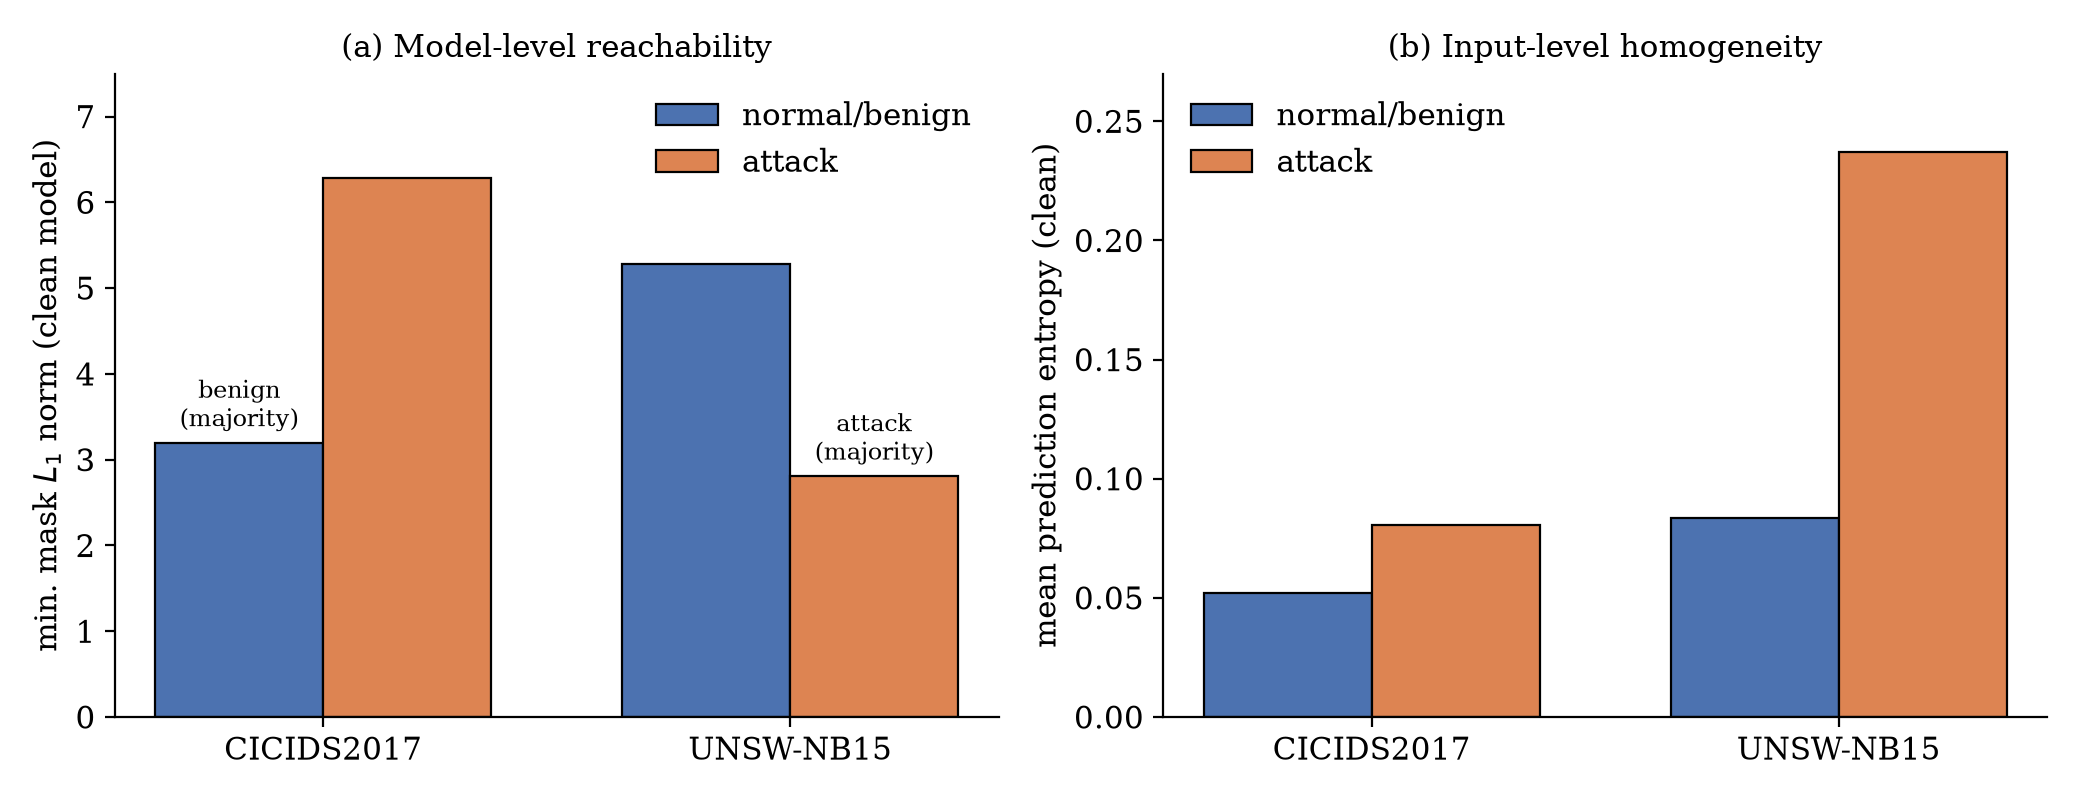
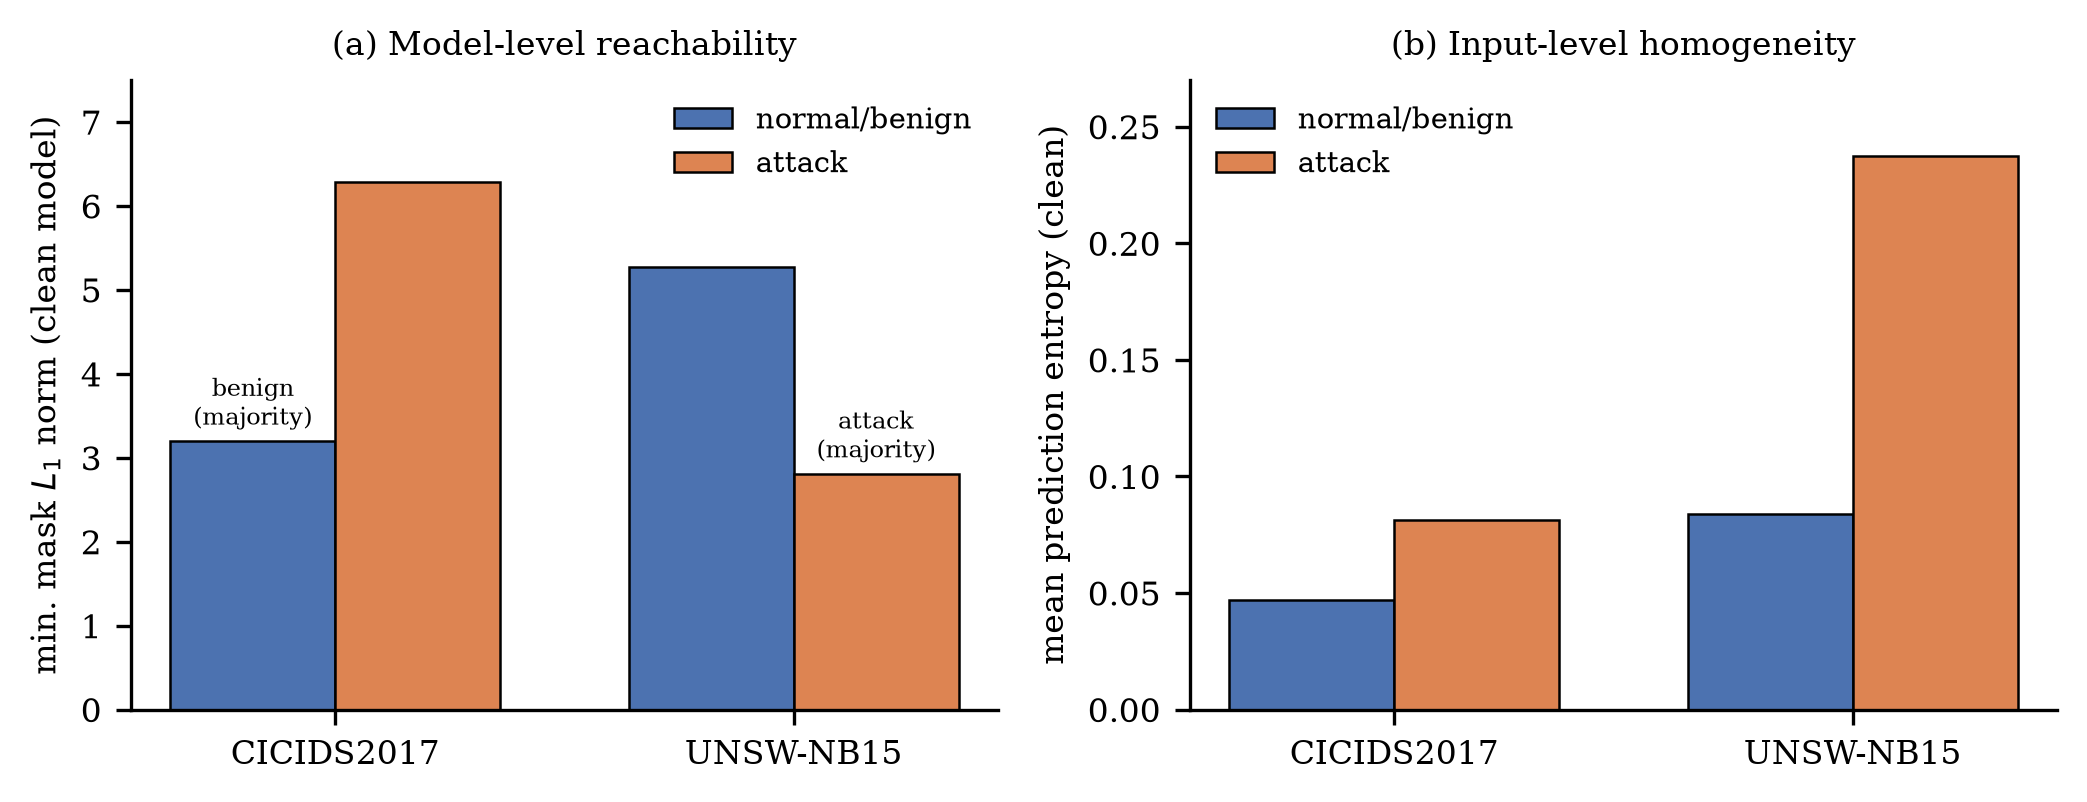
exp: plot Figure 3 panel (b) from clean-model entropies and match the article's style
Panel (b) CICIDS2017 now uses the per-class entropy of the clean
reference models; the sources table records n and sd for every bar.

diff --git a/src/eval/plot_figure3.py b/src/eval/plot_figure3.py
@@ -1,9 +1,11 @@
 """Figure 3 of the article: the intrinsically easy class, by (a) model-level
 reachability and (b) input-level homogeneity, on CICIDS2017 and UNSW-NB15.
 
-Plots committed values only (no models are loaded). Every bar is read from the
-committed metrics file and field listed in ``SOURCES``; the plotted values and
-their sources are written next to the figure.
+Plots committed values only (no models are loaded). Every bar is the mean of a
+committed ``{mean, std}`` statistic over clean models; the file, field, number of
+models (n), and sd of each bar are listed in ``SOURCES`` and written next to the
+figure. The visual style (size, fonts, colors, legend, annotations) matches the
+figure in the article; PNG at 300 dpi.
 
 Outputs: ``experiments/figure3/figure3.png``, ``experiments/figure3/figure3_data.json``.
 
@@ -23,86 +25,94 @@ import matplotlib.pyplot as plt  # noqa: E402
 
 from src.utils import resolve_path  # noqa: E402
 
-# (panel, dataset, class) -> (metrics file, path of keys inside it, note)
+# (panel, dataset, class) -> (metrics file, key path to a {mean, std} statistic,
+#                             key path to n (None = len(stat["values"])), models averaged)
+_6D = "experiments/phase6d/metrics.json"
+_7D = "experiments/phase7d/metrics.json"
+_CE = "experiments/clean_entropy/metrics.json"
+_6D_N = ["per_condition", "B_imbal_tgtBenign", "n_seeds"]
+_6D_MODELS = "clean models of controlled-experiment condition B (natural class ratio), seeds 42-46"
+_7D_MODELS = "clean UNSW-NB15 models, seeds 42-46"
+_CE_MODELS = "clean CICIDS2017 reference models, seeds 43-47"
 SOURCES = {
     ("reachability", "CICIDS2017", "normal/benign"): (
-        "experiments/phase6d/metrics.json",
-        ["per_condition", "B_imbal_tgtBenign", "mask_clean_benign", "mean"],
-        "clean models, natural class ratio, mean over 5 seeds"),
+        _6D, ["per_condition", "B_imbal_tgtBenign", "mask_clean_benign"], _6D_N, _6D_MODELS),
     ("reachability", "CICIDS2017", "attack"): (
-        "experiments/phase6d/metrics.json",
-        ["per_condition", "B_imbal_tgtBenign", "mask_clean_attack", "mean"],
-        "clean models, natural class ratio, mean over 5 seeds"),
+        _6D, ["per_condition", "B_imbal_tgtBenign", "mask_clean_attack"], _6D_N, _6D_MODELS),
     ("reachability", "UNSW-NB15", "normal/benign"): (
-        "experiments/phase7d/metrics.json",
-        ["intrinsic", "measures", "nc_mask_normal", "mean"],
-        "clean models, mean over 5 seeds"),
+        _7D, ["intrinsic", "measures", "nc_mask_normal"], None, _7D_MODELS),
     ("reachability", "UNSW-NB15", "attack"): (
-        "experiments/phase7d/metrics.json",
-        ["intrinsic", "measures", "nc_mask_attack", "mean"],
-        "clean models, mean over 5 seeds"),
+        _7D, ["intrinsic", "measures", "nc_mask_attack"], None, _7D_MODELS),
     ("homogeneity", "CICIDS2017", "normal/benign"): (
-        "experiments/phase4/metrics.json",
-        ["class_breakdown", "mean_entropy", "clean_benign"],
-        "clean benign inputs, representative p0.05 model"),
+        _CE, ["ent_benign"], None, _CE_MODELS),
     ("homogeneity", "CICIDS2017", "attack"): (
-        "experiments/phase4/metrics.json",
-        ["class_breakdown", "mean_entropy", "clean_attack"],
-        "clean attack inputs, representative p0.05 model"),
+        _CE, ["ent_attack"], None, _CE_MODELS),
     ("homogeneity", "UNSW-NB15", "normal/benign"): (
-        "experiments/phase7d/metrics.json",
-        ["intrinsic", "measures", "ent_normal", "mean"],
-        "clean models, mean over 5 seeds"),
+        _7D, ["intrinsic", "measures", "ent_normal"], None, _7D_MODELS),
     ("homogeneity", "UNSW-NB15", "attack"): (
-        "experiments/phase7d/metrics.json",
-        ["intrinsic", "measures", "ent_attack", "mean"],
-        "clean models, mean over 5 seeds"),
+        _7D, ["intrinsic", "measures", "ent_attack"], None, _7D_MODELS),
 }
 DATASETS = ["CICIDS2017", "UNSW-NB15"]
 CLASSES = ["normal/benign", "attack"]
 COLORS = {"normal/benign": "#4C72B0", "attack": "#DD8452"}
 MAJORITY = {"CICIDS2017": "normal/benign", "UNSW-NB15": "attack"}
 
+# Style of the figure in the article.
+FIGSIZE = (7.0, 2.72)
+DPI = 300
+FONT_SIZE = 8
+LEGEND_SIZE = 7
+ANNOTATION_SIZE = 5.75
+BAR_WIDTH = 0.36
+BAR_EDGE_WIDTH = 0.6
+
+
+def _get(obj, keys):
+    for k in keys:
+        obj = obj[k]
+    return obj
+
 
 def load_values() -> dict:
     cache, out = {}, {}
-    for key, (path, keys, note) in SOURCES.items():
+    for key, (path, stat_keys, n_keys, models) in SOURCES.items():
         if path not in cache:
             cache[path] = json.loads(resolve_path(path).read_text(encoding="utf-8"))
-        v = cache[path]
-        for k in keys:
-            v = v[k]
-        out[key] = {"value": float(v), "source": f"{path}: {'.'.join(keys)}", "note": note}
+        stat = _get(cache[path], stat_keys)
+        n = _get(cache[path], n_keys) if n_keys else len(stat["values"])
+        out[key] = {"value": float(stat["mean"]), "sd": float(stat["std"]), "n": int(n),
+                    "models": models, "source": f"{path}: {'.'.join(stat_keys)}"}
     return out
 
 
 def plot(values: dict, png_path) -> None:
-    plt.rcParams.update({"font.family": "serif", "font.size": 11})
-    fig, axes = plt.subplots(1, 2, figsize=(10.4, 4.0))
-    width = 0.36
+    plt.rcParams.update({"font.family": "serif", "font.size": FONT_SIZE})
+    fig, axes = plt.subplots(1, 2, figsize=FIGSIZE)
     panels = [("reachability", "(a) Model-level reachability",
                r"min. mask $L_1$ norm (clean model)", 7.5),
               ("homogeneity", "(b) Input-level homogeneity",
                "mean prediction entropy (clean)", 0.27)]
     for ax, (panel, title, ylabel, ymax) in zip(axes, panels):
         for i, cls in enumerate(CLASSES):
-            xs = [d + (i - 0.5) * width for d in range(len(DATASETS))]
+            xs = [d + (i - 0.5) * BAR_WIDTH for d in range(len(DATASETS))]
             ys = [values[(panel, d, cls)]["value"] for d in DATASETS]
-            ax.bar(xs, ys, width, color=COLORS[cls], edgecolor="black", linewidth=0.8, label=cls)
+            ax.bar(xs, ys, BAR_WIDTH, color=COLORS[cls], edgecolor="black",
+                   linewidth=BAR_EDGE_WIDTH, label=cls)
         if panel == "reachability":
             for d_i, d in enumerate(DATASETS):
                 cls = MAJORITY[d]; i = CLASSES.index(cls)
                 y = values[(panel, d, cls)]["value"]
-                ax.text(d_i + (i - 0.5) * width, y + 0.1, f"{cls.split('/')[-1]}\n(majority)",
-                        ha="center", va="bottom", fontsize=8.5)
+                ax.text(d_i + (i - 0.5) * BAR_WIDTH, y + 0.1, f"{cls.split('/')[-1]}\n(majority)",
+                        ha="center", va="bottom", fontsize=ANNOTATION_SIZE)
         ax.set_xticks(range(len(DATASETS)), DATASETS)
         ax.set_ylim(0, ymax)
-        ax.set_title(title, fontsize=11)
+        ax.set_title(title, fontsize=FONT_SIZE)
         ax.set_ylabel(ylabel)
         ax.spines[["top", "right"]].set_visible(False)
-        ax.legend(frameon=False, loc="upper right" if panel == "reachability" else "upper left")
+        ax.legend(frameon=False, fontsize=LEGEND_SIZE,
+                  loc="upper right" if panel == "reachability" else "upper left")
     fig.tight_layout()
-    fig.savefig(png_path, dpi=200)
+    fig.savefig(png_path, dpi=DPI, bbox_inches="tight")
     plt.close(fig)
 
 
@@ -117,7 +127,8 @@ def main() -> None:
     rows = [{"panel": p, "dataset": d, "class": c, **v} for (p, d, c), v in values.items()]
     (out_dir / "figure3_data.json").write_text(json.dumps(rows, indent=2), encoding="utf-8")
     for r in rows:
-        print(f"  {r['panel']:<12} {r['dataset']:<10} {r['class']:<13} {r['value']:.4f}  <- {r['source']}")
+        print(f"  {r['panel']:<12} {r['dataset']:<10} {r['class']:<13} "
+              f"{r['value']:.4f} ± {r['sd']:.4f} (n={r['n']})  <- {r['source']}")
     print(f"  wrote {out_dir / 'figure3.png'}")
 
 

diff --git a/RESULTS.md b/RESULTS.md
@@ -41,7 +41,7 @@ prerequisites.
 | §3.5: low-prevalence extrapolation | 0 false alarms per 1,000 models; ~10/50 true alarms (CICIDS2017), 8/40 (UNSW-NB15) at 1%/5% base rates | `python -m src.eval.run_phase7e_nc_reeval` | `configs/phase7e.yaml` | `phase7e/metrics.json` → `<dataset>.part3.low_prevalence`; `phase7e/summary.md` (Part 3) |
 | §3.5: cost | screening takes seconds per model; exhaustive STRIP infeasible above a few thousand flows/s | `python -m src.eval.run_comparison` | `configs/comparison.yaml` | `phase7/comparison_summary.md` (§4: NC ~3.0 s/model; ~7142 flows/s per core) |
 | Figure 1: threat model | conceptual diagram | none | none | not produced by code (see Unmatched) |
-| **Figure 3**: intrinsically easy class | (a) clean-model minimal mask: CICIDS2017 3.2 / 6.0, UNSW-NB15 5.28 / 2.81; (b) clean-input entropy: CICIDS2017 0.052 / 0.081, UNSW-NB15 0.084 / 0.237 | `python -m src.eval.plot_figure3` | none (reads committed metrics) | `figure3/figure3.png`; values and their source fields in `figure3/figure3_data.json` (see Notes) |
+| **Figure 3**: intrinsically easy class | (a) clean-model minimal mask: CICIDS2017 3.197 / 6.287, UNSW-NB15 5.28 / 2.81; (b) clean-input entropy on clean models: CICIDS2017 0.047 / 0.081, UNSW-NB15 0.084 / 0.237 (each bar: mean over n = 5 models) | `python -m src.eval.run_clean_entropy` (panel b, CICIDS2017), then `python -m src.eval.plot_figure3` | `configs/clean_entropy.yaml` | `figure3/figure3.png`; per-bar value, sd, n, and source in `figure3/figure3_data.json`; `clean_entropy/metrics.json` (see Notes) |
 
 ## Supporting experiment (not cited in the article)
 
@@ -62,17 +62,20 @@ These values or items in the article cannot be traced to a committed file in `ex
   features. These values flip **0.8883** of correctly detected attacks (56,104 / 63,157). The
   article reports 91%. The same script reproduces the constant trigger's natural ASR of 0.0283
   (1,787 / 63,157) exactly.
-- **Figure 3.** `src.eval.plot_figure3` regenerates the figure from committed values. Seven of
-  its eight bars match the article's figure:
-  - UNSW-NB15 values come from `phase7d` (clean models, five seeds).
-  - The CICIDS2017 benign mask (3.197) comes from `phase6d`, the clean models of the controlled
-    experiment.
-  - The CICIDS2017 entropies (0.052 / 0.081) come from `phase4`. They are measured on clean
-    inputs, but with the representative p0.05 model. No committed per-class entropy exists for
-    a clean CICIDS2017 model.
-  - The article's CICIDS2017 attack mask bar (≈ 6.0) has no exact committed source. The
-    script plots the `phase6d` value from the same clean models as the benign bar, **6.287**.
-    The nearest other value is the `phase7e` count-matched mask, 6.035.
+- **Figure 3.** `src.eval.plot_figure3` draws every bar from committed metrics, in the style of
+  the article's figure (300 dpi). Each bar is a mean over n = 5 clean models:
+  - Panel (a), CICIDS2017 (benign 3.197 ± 0.241, attack 6.287 ± 1.066): `phase6d`, the clean
+    models of controlled-experiment condition B (natural class ratio, seeds 42–46).
+  - Panel (b), CICIDS2017 (benign 0.0468 ± 0.0049, attack 0.0814 ± 0.0032):
+    `src.eval.run_clean_entropy` on the clean reference models (seeds 43–47). It uses the same
+    function and protocol as the UNSW-NB15 measurement, which it reproduces exactly on a
+    UNSW-NB15 model.
+  - UNSW-NB15, both panels (mask 5.275 ± 0.735 / 2.808 ± 0.188, entropy 0.0837 ± 0.0066 /
+    0.2372 ± 0.0077): `phase7d` (clean models, seeds 42–46).
+
+  An earlier draft of the figure showed ≈ 6.0 for the CICIDS2017 attack mask, and 0.052 / 0.081
+  for the CICIDS2017 entropies. Those entropies were measured on the backdoored p0.05 model in
+  `phase4`, not on clean models.
 - **UNSW-NB15 screening AUC.** The article's value (0.840, 95% CI [0.52, 1.00]) uses the
   `phase7e` protocol: target-excluded, count-matched Neural Cleanse over independently trained
   models. The separation AUC of 1.000 in `phase7d` comes from an earlier, all-input protocol

diff --git a/README.md b/README.md
@@ -61,6 +61,7 @@ fixed in the configuration files, so they have been kept unchanged.
 | `phase7e/` | Neural Cleanse re-evaluation (target-excluded, count-matched) | `src.eval.run_phase7e_nc_reeval` |
 | `phase7f/` | STRIP re-evaluation and measured entropy distributions | `src.eval.run_phase7f_strip_reeval` |
 | `percentile_control/` | Percentile-trigger control on the clean model | `src.eval.run_percentile_control` |
+| `clean_entropy/` | Per-class STRIP entropy on clean CICIDS2017 models | `src.eval.run_clean_entropy` |
 | `figure3/` | Figure 3 of the article, plotted from committed metrics | `src.eval.plot_figure3` |
 
 **Terminology.** The scripts and configs named `causal_test*` implement what the article calls
@@ -189,6 +190,7 @@ python -m src.eval.run_phase7c_stats --config configs/phase7c.yaml              
 
 ```bash
 python -m src.eval.run_unsw_replication --config configs/unsw.yaml               # -> experiments/phase7d/
+python -m src.eval.run_clean_entropy --config configs/clean_entropy.yaml       # -> experiments/clean_entropy/
 python -m src.eval.plot_figure3                                                # -> experiments/figure3/ (Figure 3)
 ```
 
